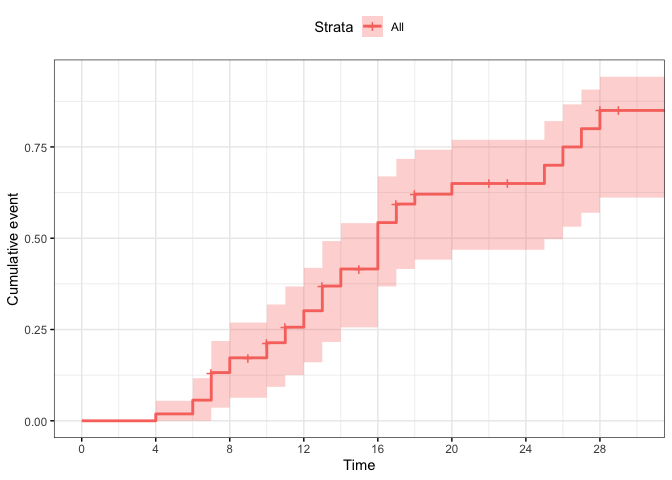
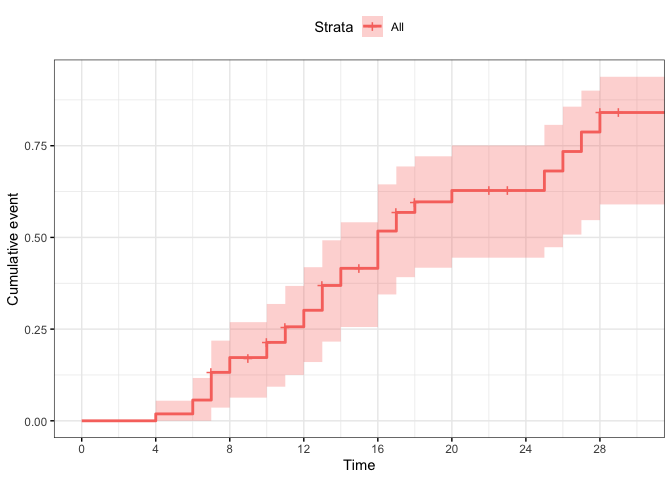
Update figure :tada:

diff --git a/README.md b/README.md
@@ -41,6 +41,7 @@ long_dat %>%
          day_oxy = ifelse(day_oxy > 28, 28, day_oxy),
          day = ifelse(day > 28, 28, day),
          patient = factor(patient, levels = 53:1),
+         status = factor(status, labels = c("Improved", "Not Changed", "Worsened")),
          event = ifelse(event == "censor", NA, event)
   ) %>%
   ggplot(aes(x = patient, y = day_oxy, fill = cat)) +
@@ -53,10 +54,16 @@ long_dat %>%
   geom_point(aes(x = patient, y = day - 0.5, shape = event)) +
   scale_shape_manual("Event", values = c(15, 5),
                      labels = c("Death", "Discharge", "")) +
+  geom_point(aes(x = patient, y = -2, color = status)) +
+  scale_color_manual("Status", values = c("steelblue", "lightblue3", "gray30")) +
+  scale_y_continuous(breaks = 0:28) +
   guides(fill = guide_legend(override.aes = list(shape = NA), order = 1)) +
   coord_flip() +
-  labs(y = "day", x = "") +
-  theme_classic()
+  labs(y = "Day", x = "Patient\nNo.") +
+  theme_classic() +
+  theme(axis.line.y = element_blank(), 
+        axis.ticks.y = element_blank(),
+        axis.title.y = element_text(angle = 0))
 ```
 
 ![](README_files/figure-gfm/unnamed-chunk-3-1.png)<!-- -->
@@ -137,7 +144,7 @@ ggsurvplot(survfit(Surv(time = t, event = event) ~ 1, data = dat),
 ![](README_files/figure-gfm/unnamed-chunk-8-1.png)<!-- -->
 
 My curve doesn’t look exactly like the article’s so I probably need to
-do some more detective work 🕵♂.
+do some more detective work 🕵♀.
 
 I’ve painstakingly pulled every number from Figure 3A 😅
 
@@ -146,11 +153,11 @@ fig_3 <- tibble(
   time = c(4, 6, 6, 7, 7, 7, 7, 7, 7, 7, 8, 8, 9,
            10, 10, 10, 11, 11, 11, 11, 12, 12, 13,
            13, 13, 13, 14, 14, 15, 15, 16, 16, 16, 
-           16, 16, 17, 17, 17, 18, 18, 20, 22, 22, 
+           16, 17, 17, 17, 17, 18, 18, 20, 22, 22, 
            23, 23, 23, 25, 26, 27, 28, 28, 29, 33),
   event = c(1, 1, 1, 1, 1, 1, 1, 0, 0, 0, 1, 1, 0,
             1, 1, 0, 1, 1, 0, 0, 1, 1, 1, 1, 1, 0, 
-            1, 1, 0, 0, 1, 1, 1, 1, 1, 1, 1, 0, 1, 
+            1, 1, 0, 0, 1, 1, 1, 1, 1, 1, 0, 0, 1, 
             0, 1, 0, 0, 0, 0, 0, 1, 1, 1, 1, 0, 0,
             0)
 )
@@ -170,7 +177,7 @@ incidence at 28 days:
 
 ``` r
 1-s$surv[s$time == 28]
-#> [1] 0.8499287
+#> [1] 0.8405492
 ```
 
 Looks very similar to the 84% reported in the initial paper.
@@ -183,11 +190,11 @@ fig_3_fixed <- tibble(
   time = c(4, 6, 6, 7, 7, 7, 7, 7, 7, 7, 8, 8, 9,
            10, 10, 10, 11, 11, 11, 11, 12, 12, 13,
            13, 13, 13, 14, 14, 15, 15, 16, 16, 16, 
-           16, 16, 17, 17, 17, 18, 18, 20, 22, 22, 
+           16, 17, 17, 17, 17, 18, 18, 20, 22, 22, 
            23, 23, 23, 25, 26, 27, 28, 28, 29, 33),
   event = c(1, 1, 1, 1, 1, 1, 1, 2, 0, 0, 1, 1, 2,
             1, 1, 0, 1, 1, 2, 0, 1, 1, 1, 1, 1, 0, 
-            1, 1, 2, 2, 1, 1, 1, 1, 1, 1, 1, 2, 1, 
+            1, 1, 2, 2, 1, 1, 1, 1, 1, 1, 0, 2, 1, 
             2, 1, 0, 0, 0, 0, 0, 1, 1, 1, 1, 0, 0,
             0)
 )
@@ -211,7 +218,7 @@ Ok, let’s pull the cumulative incidence now, taking death into account.
 
 ``` r
 x$`1 1`$est[x$`1 1`$time == 28][2]
-#> [1] 0.7430043
+#> [1] 0.734131
 ```
 
 ## Notes
